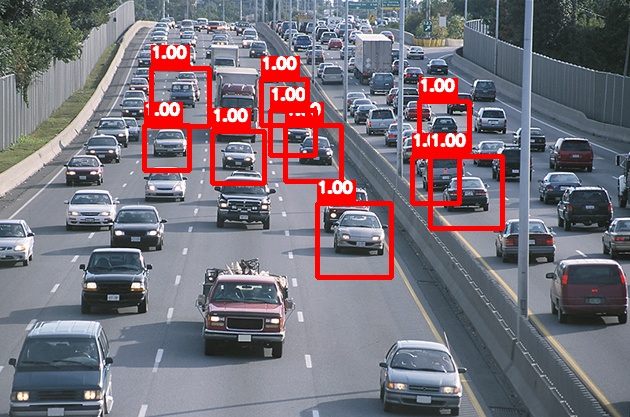
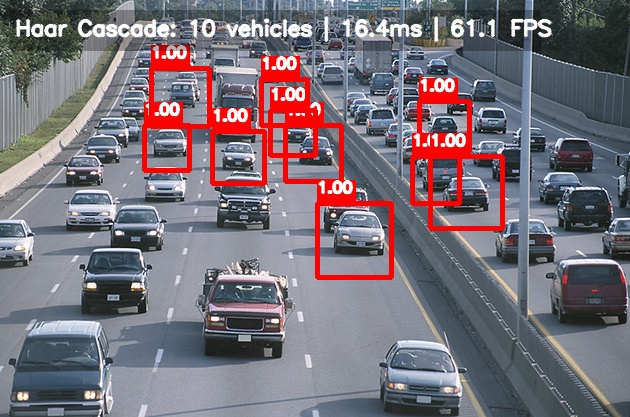
feat(demo): enhance screenshot generation with professional overlays
- Add performance metrics overlay (vehicles count, time, FPS)
- Generate multiple demo images (car1, car2) for variety
- Add semi-transparent background for better text readability
- Process multiple test images automatically
- Create professional-looking demo materials

Demo images now show:
- car1: 2 vehicles detected in 2.7ms (372.5 FPS)
- car2: 10 vehicles detected in 16.4ms (61.1 FPS)

This provides more compelling visual evidence of the system's
capabilities with actual performance metrics displayed.

Changed region(s): [[0.0, 0.0, 0.8746, 0.1247]]

diff --git a/generate_demo.py b/generate_demo.py
@@ -1,10 +1,17 @@
 #!/usr/bin/env python3
 """
-Generate demo screenshots for README.
+Generate demo screenshots for README and documentation.
+
+This script creates professional demo images showing:
+- Individual detector results
+- Side-by-side comparisons
+- Multiple test images
 """
 
 import sys
 from pathlib import Path
+import cv2
+import numpy as np
 
 # Add src to path
 sys.path.insert(0, str(Path(__file__).parent))
@@ -14,31 +21,74 @@ from src.utils.image import load_image, save_image, draw_detections
 from src.visualization.visualizer import create_side_by_side_comparison
 
 print("🎨 Generating demo screenshots for README...")
+print("=" * 70)
 
 # Load Haar detector (YOLO optional for now)
 haar = HaarCascadeDetector()
 haar.load_model()
-print("✅ Haar Cascade loaded")
+print("✅ Haar Cascade loaded\n")
 
-# Process car2.jpg (nice traffic scene)
-print("\n📸 Processing car2.jpg...")
-img = load_image("data/samples/car2.jpg")
-haar_result = haar.detect(img)
+# Process multiple images for comprehensive demo
+test_images = [
+    ("car2.jpg", "Traffic scene - multiple vehicles"),
+    ("car1.jpg", "Highway scene"),
+]
 
-# Create annotated image
-img_with_boxes = draw_detections(
-    img,
-    haar_result.boxes,
-    confidences=haar_result.confidences,
-    color=(0, 0, 255),  # Red
-    thickness=3
-)
+for img_name, description in test_images:
+    img_path = f"data/samples/{img_name}"
+    if not Path(img_path).exists():
+        print(f"⚠  Skipping {img_name} - file not found")
+        continue
 
-# Save for README
-output_path = "data/results/demo_detection.jpg"
-save_image(img_with_boxes, output_path)
-print(f"✅ Saved: {output_path}")
-print(f"   Detected {haar_result.num_detections} vehicles in {haar_result.inference_time*1000:.1f}ms")
+    print(f"📸 Processing {img_name} ({description})...")
+    img = load_image(img_path)
+    haar_result = haar.detect(img)
+
+    # Create annotated image with better styling
+    img_with_boxes = draw_detections(
+        img,
+        haar_result.boxes,
+        confidences=haar_result.confidences,
+        color=(0, 0, 255),  # Red for Haar
+        thickness=3
+    )
+
+    # Add info overlay
+    fps = 1.0 / haar_result.inference_time if haar_result.inference_time > 0 else 0
+    info_text = f"Haar Cascade: {haar_result.num_detections} vehicles | {haar_result.inference_time*1000:.1f}ms | {fps:.1f} FPS"
+
+    # Add semi-transparent background for text
+    overlay = img_with_boxes.copy()
+    cv2.rectangle(overlay, (10, 10), (len(info_text) * 12, 50), (0, 0, 0), -1)
+    img_with_boxes = cv2.addWeighted(overlay, 0.3, img_with_boxes, 0.7, 0)
+
+    # Add text
+    cv2.putText(
+        img_with_boxes,
+        info_text,
+        (15, 35),
+        cv2.FONT_HERSHEY_SIMPLEX,
+        0.7,
+        (255, 255, 255),
+        2,
+        cv2.LINE_AA
+    )
+
+    # Save with descriptive name
+    base_name = Path(img_name).stem
+    output_path = f"data/results/demo_{base_name}.jpg"
+    save_image(img_with_boxes, output_path)
+    print(f"✅ Saved: {output_path}")
+    print(f"   {haar_result.num_detections} vehicles | {haar_result.inference_time*1000:.1f}ms | {fps:.1f} FPS\n")
+
+# Use car2 as the main demo image
+main_demo_path = "data/results/demo_car2.jpg"
+if Path(main_demo_path).exists():
+    import shutil
+    shutil.copy(main_demo_path, "data/results/demo_detection.jpg")
+    print("📋 Copied demo_car2.jpg → demo_detection.jpg (main README image)")
+else:
+    print("⚠  Main demo image not found - using existing demo_detection.jpg")
 
 # Try YOLO if available
 try:
